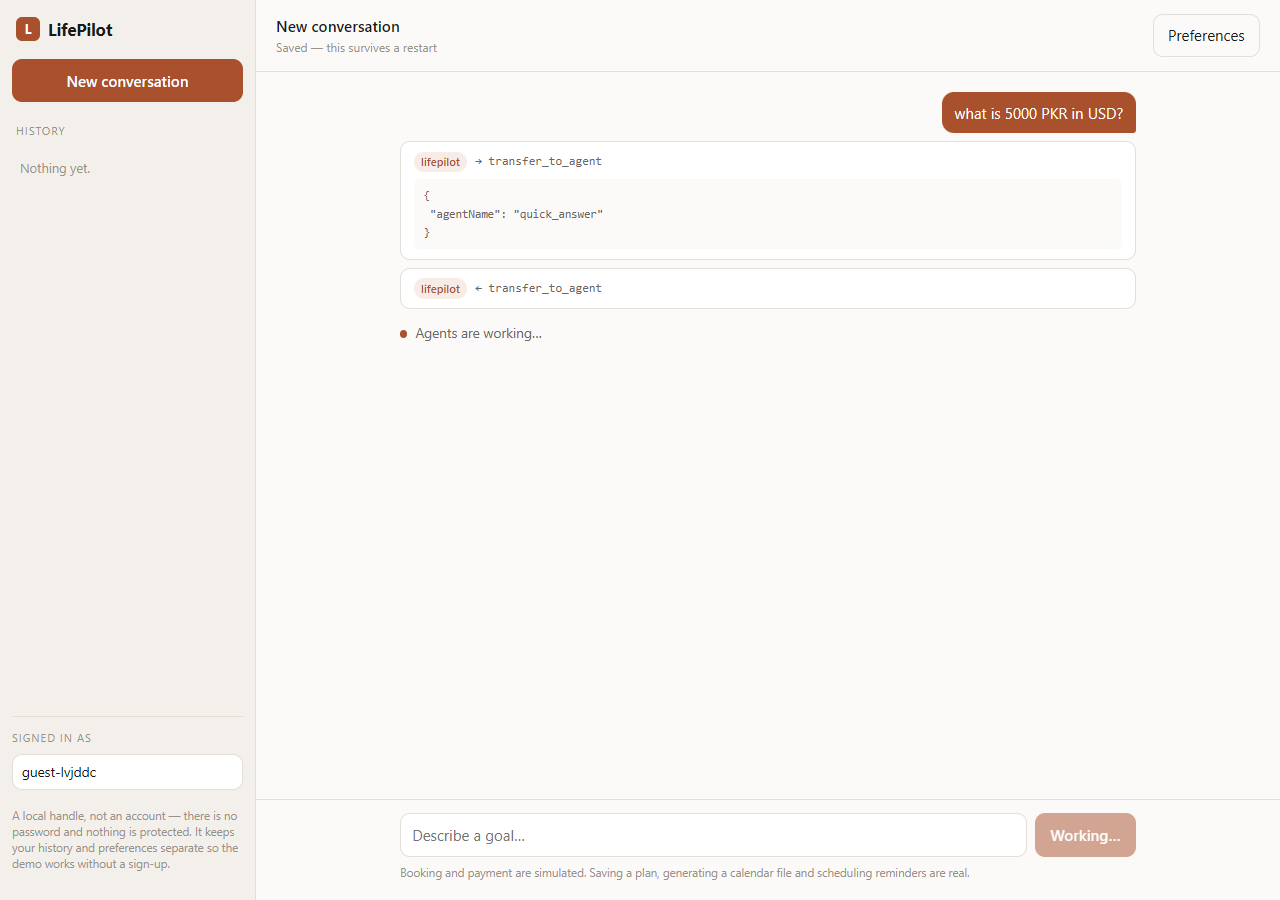
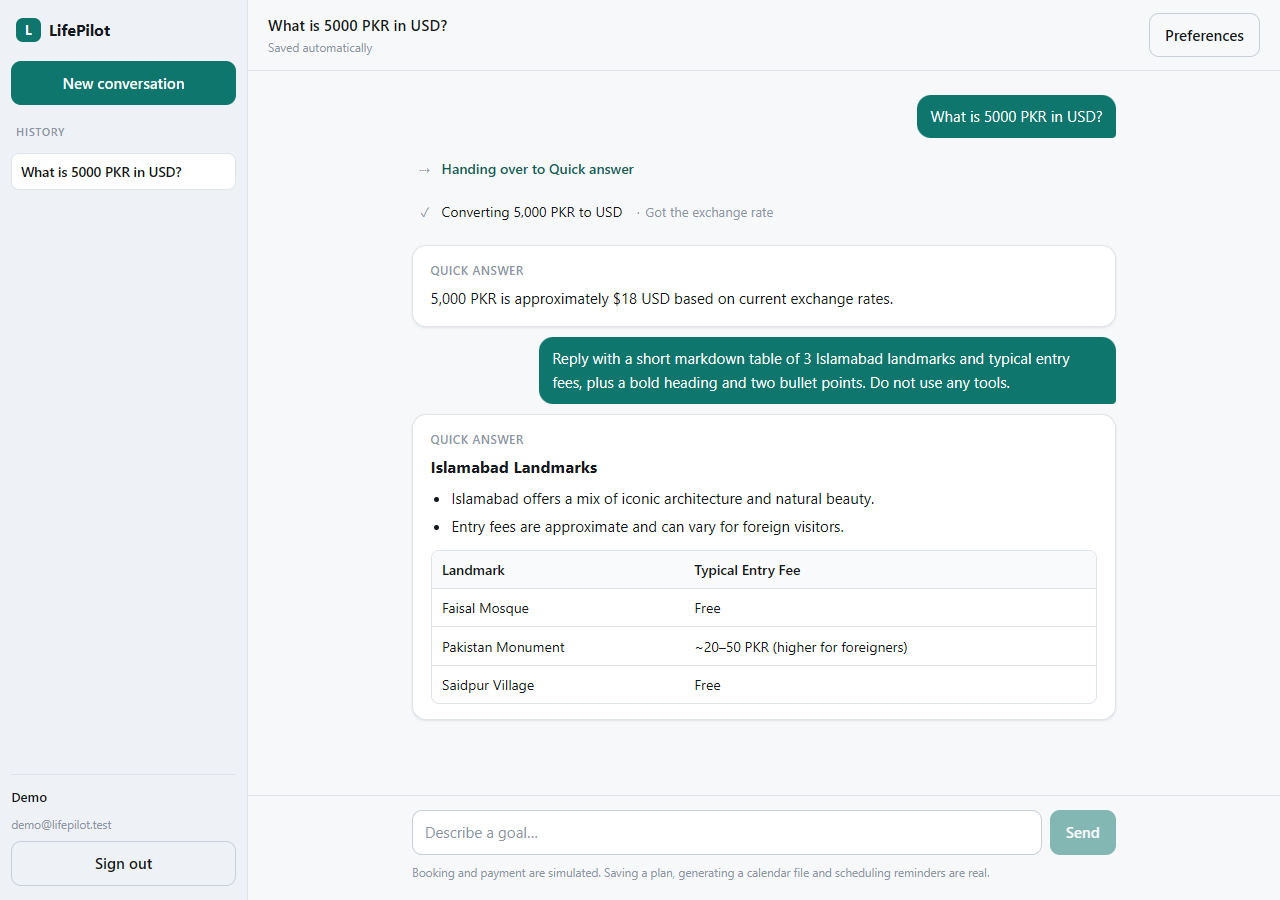
docs: refresh screenshots and correct the auth limitation
The README claimed there is no authentication and that identity is a handle in
localStorage. That was true when it was written and is not true now, so it was
actively misleading — the honest-limitations section is worth nothing if it goes
stale.

Replaced with what is actually missing: no email verification, no password
reset, no rate limiting on sign-in. Those are the things to fix before anyone
trusts it with real data.

Screenshots retaken against the current UI, including the sign-in screen and a
rendered markdown table, since the old ones showed the raw-JSON feed.

diff --git a/README.md b/README.md
@@ -75,6 +75,7 @@ agents and never the late pipeline agents that carry 12k of findings.
 | Multi-provider | A hand-written `BaseLlm` adapter — ADK-TS ships no non-Gemini models |
 | API | Node 22 · TypeScript strict · Hono · SSE |
 | Web | Next.js App Router, hand-written CSS |
+| Auth | scrypt password hashing + HMAC-signed tokens (`node:crypto`) |
 | Data | Neon Postgres via ADK `DatabaseSessionService` |
 | Contracts | Zod schemas shared by API **and** web |
 
@@ -134,6 +135,12 @@ agent that forgets to ask still cannot act.
 **`packages/shared/src/schemas.ts`** — one set of Zod schemas feeding ADK's tool
 declarations *and* the web app, so the two cannot drift.
 
+**`apps/web/app/lib/activity.ts`** — the agent stream is engineering output:
+`transfer_to_agent`, argument objects, internal agent names. This turns it into
+sentences a person would want to read ("Checking the 3-day forecast for
+Islamabad"), folds results into the call that produced them, and keeps the raw
+payload one click away. Transparency is better served by this than by the JSON.
+
 ---
 
 ## Tool layer
@@ -189,9 +196,11 @@ secret configured, no execution.
 
 Kept here deliberately. A portfolio project that hides its edges is a tutorial.
 
-- **There is no authentication.** Identity is a handle in `localStorage` so a
-  stranger can use the demo without signing up, and the UI says so plainly. Real
-  auth is roadmap work, not something to fake in the client.
+- **Authentication is deliberately simple.** Real accounts with scrypt-hashed
+  passwords and HMAC-signed tokens, written against node:crypto rather than
+  pulled from a dependency — but there is no email verification, no password
+  reset and no rate limiting on sign-in. Those are the next things to add before
+  anyone should trust it with real data.
 - **Place data has no ratings, reviews or photos** — an OpenStreetMap
   consequence, surfaced to the agents rather than papered over, so ranking
   questions go to web search instead of being invented.
@@ -214,9 +223,9 @@ Kept here deliberately. A portfolio project that hides its edges is a tutorial.
 
 ## Screenshots
 
-| Desktop — live timeline | Mobile | History replay |
+| Sign in | Desktop | Mobile |
 |---|---|---|
-| ![](docs/screenshots/desktop-timeline.png) | ![](docs/screenshots/mobile-timeline.png) | ![](docs/screenshots/desktop-history.png) |
+| ![](docs/screenshots/sign-in.png) | ![](docs/screenshots/desktop-timeline.png) | ![](docs/screenshots/mobile-timeline.png) |
 
 ---
 
